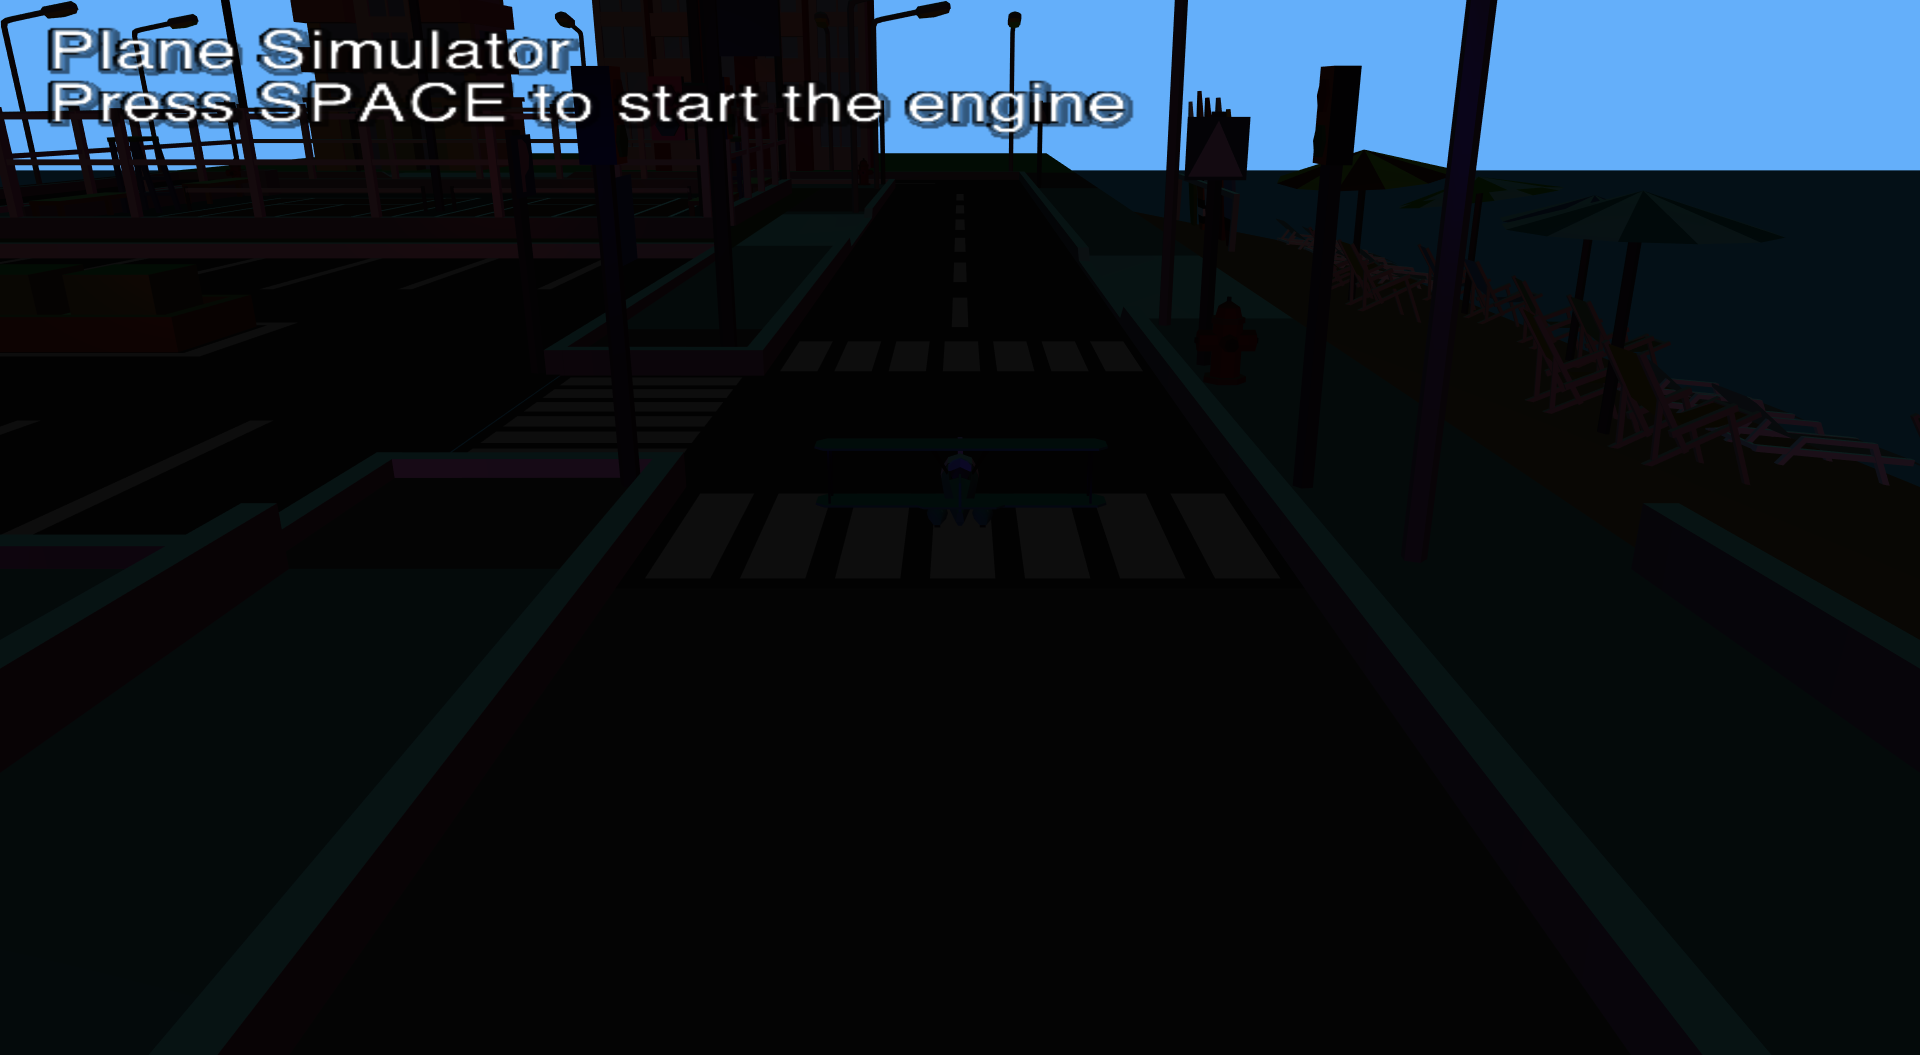
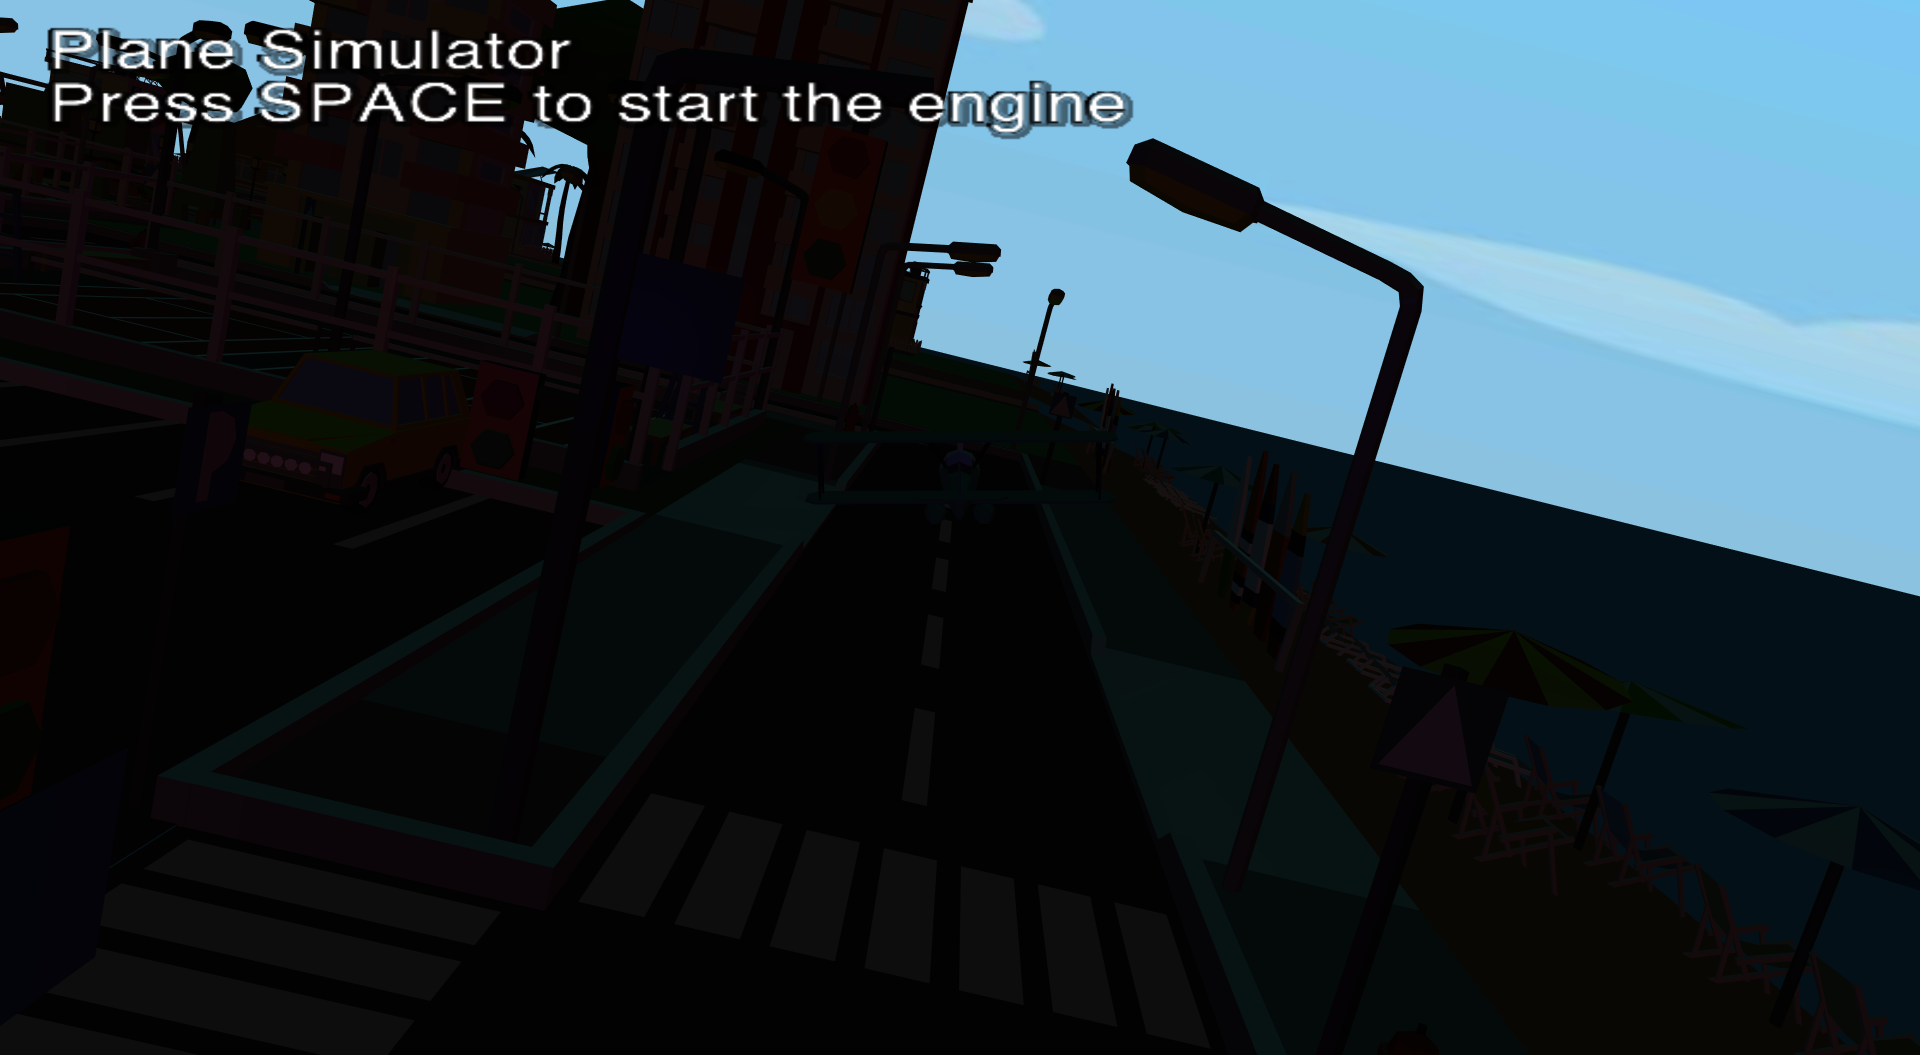
Implemented 1st person view and Pad commands

diff --git a/Code/modules/Starter.hpp b/Code/modules/Starter.hpp
@@ -1844,107 +1844,198 @@ std::cout << "Starting createInstance()\n"  << std::flush;
 	int images = 0;
 	Direction defaultDirection = Direction::FRONT;
 	Direction oldDirection = defaultDirection;
-
-	void handleCommands(float& deltaT, glm::vec3& movement, bool& start, float& zoom, float& speedFactor, Direction& direction, bool& instantCamera, uint32_t currentImage) {
+	bool tabPressed = false;
+	void handleCommands(float& deltaT, glm::vec3& movement, bool& start, float& zoom, float& speedFactor, Direction& direction, bool& instantCamera, bool& thirdPerson, uint32_t currentImage) {
 
 		static auto startTime = std::chrono::high_resolution_clock::now();
 		static float lastTime = 0.0f;
 
 		auto currentTime = std::chrono::high_resolution_clock::now();
-		float time = std::chrono::duration<float, std::chrono::seconds::period>
-			(currentTime - startTime).count();
+		float time = std::chrono::duration<float, std::chrono::seconds::period>(currentTime - startTime).count();
 		deltaT = time - lastTime;
 		lastTime = time;
 
 		direction = defaultDirection;
 		instantCamera = false;
 
-		if (glfwGetKey(window, GLFW_KEY_W)) {
-			movement.x = 1.0f;
-		}
-		if (glfwGetKey(window, GLFW_KEY_S)) {
-			movement.x = -1.0f;
-		}
-		if (glfwGetKey(window, GLFW_KEY_Q)) {
-			movement.z = -1.0f;
-		}
-		if (glfwGetKey(window, GLFW_KEY_E)) {
-			movement.z = 1.0f;
-		}
-		if (glfwGetKey(window, GLFW_KEY_A)) {
-			movement.y = 1.0f;
-		}
-		if (glfwGetKey(window, GLFW_KEY_D)) {
-			movement.y = -1.0f;
-		}
+		int id = GLFW_JOYSTICK_1;
 
-		/* TODO
-		handleGamePad(GLFW_JOYSTICK_1, m, r, fire);
-		handleGamePad(GLFW_JOYSTICK_2, m, r, fire);
-		handleGamePad(GLFW_JOYSTICK_3, m, r, fire);
-		handleGamePad(GLFW_JOYSTICK_4, m, r, fire);
-		*/
+		if (glfwJoystickIsGamepad(id)) {
+			GLFWgamepadstate state;
+			if (glfwGetGamepadState(id, &state)) {
+				float deadZone = 0.3f;
 
-		if (glfwGetKey(window, GLFW_KEY_ESCAPE)) {
-			glfwSetWindowShouldClose(window, GL_TRUE);
+				if (fabs(state.axes[GLFW_GAMEPAD_AXIS_LEFT_Y]) > deadZone) {
+					movement.x -= state.axes[GLFW_GAMEPAD_AXIS_LEFT_Y];
+				}
+				if (fabs(state.axes[GLFW_GAMEPAD_AXIS_LEFT_X]) > deadZone) {
+					movement.y -= state.axes[GLFW_GAMEPAD_AXIS_LEFT_X];
+				}
+				if (fabs(state.axes[GLFW_GAMEPAD_AXIS_LEFT_TRIGGER]) > deadZone) {
+					movement.z -= state.axes[GLFW_GAMEPAD_AXIS_LEFT_TRIGGER];
+				}
+				if (fabs(state.axes[GLFW_GAMEPAD_AXIS_RIGHT_TRIGGER]) > deadZone) {
+					movement.z += state.axes[GLFW_GAMEPAD_AXIS_RIGHT_TRIGGER];
+				}
+
+				if (fabs(state.axes[GLFW_GAMEPAD_AXIS_RIGHT_X]) > deadZone) {
+					if (state.axes[GLFW_GAMEPAD_AXIS_RIGHT_X] > 0.5f) {
+						direction = Direction::RIGHT;
+					}
+					else if (state.axes[GLFW_GAMEPAD_AXIS_RIGHT_X] < -0.5f) {
+						direction = Direction::LEFT;
+					}
+				}
+				if (fabs(state.axes[GLFW_GAMEPAD_AXIS_RIGHT_Y]) > deadZone) {
+					if (state.axes[GLFW_GAMEPAD_AXIS_RIGHT_Y] > 0.5f) {
+						direction = Direction::UP;
+					}
+					else if (state.axes[GLFW_GAMEPAD_AXIS_RIGHT_Y] < -0.5f) {
+						direction = Direction::BACK;
+					}
+				}
+
+				if (start) {
+					if (state.buttons[GLFW_GAMEPAD_BUTTON_LEFT_BUMPER]) {
+						speedFactor -= 0.15f;
+						if (speedFactor <= minSpeedFactor) {
+							speedFactor = minSpeedFactor;
+						}
+					}
+					if (state.buttons[GLFW_GAMEPAD_BUTTON_RIGHT_BUMPER]) {
+						speedFactor += 0.15f;
+						if (speedFactor >= maxSpeedFactor) {
+							speedFactor = maxSpeedFactor;
+						}
+					}
+
+					if (state.buttons[GLFW_GAMEPAD_BUTTON_LEFT_THUMB]) {
+						zoom -= 0.15f;
+						if (zoom <= 0.0f) {
+							zoom = 0.0f;
+						}
+					}
+					if (state.buttons[GLFW_GAMEPAD_BUTTON_RIGHT_THUMB]) {
+						zoom += 0.15f;
+						if (zoom >= maxZoom) {
+							zoom = maxZoom;
+						}
+					}
+				}
+
+				if (state.buttons[GLFW_GAMEPAD_BUTTON_START] || state.buttons[GLFW_GAMEPAD_BUTTON_A]) {
+					if (start) {
+						char buf[50];
+						sprintf_s(buf, "../Images/CGProject_%d.png", images++);
+						std::async(std::launch::async, &BaseProject::saveScreenshot, this, buf, currentImage);
+					}
+					else {
+						start = true;
+					}
+				}
+
+				if (state.buttons[GLFW_GAMEPAD_BUTTON_Y]) {
+					if (!tabPressed) {
+						thirdPerson = !thirdPerson;
+						tabPressed = true;
+					}
+				}
+				else {
+					tabPressed = false;
+				}
+
+				if (state.buttons[GLFW_GAMEPAD_BUTTON_B]) {
+					glfwSetWindowShouldClose(window, GL_TRUE);
+				}
+			}
 		}
+		else {
 
-		if (glfwGetKey(window, GLFW_KEY_SPACE)) {
+			if (glfwGetKey(window, GLFW_KEY_W)) {
+				movement.x = 1.0f;
+			}
+			if (glfwGetKey(window, GLFW_KEY_S)) {
+				movement.x = -1.0f;
+			}
+			if (glfwGetKey(window, GLFW_KEY_Q)) {
+				movement.z = -1.0f;
+			}
+			if (glfwGetKey(window, GLFW_KEY_E)) {
+				movement.z = 1.0f;
+			}
+			if (glfwGetKey(window, GLFW_KEY_A)) {
+				movement.y = 1.0f;
+			}
+			if (glfwGetKey(window, GLFW_KEY_D)) {
+				movement.y = -1.0f;
+			}
+
+			if (glfwGetKey(window, GLFW_KEY_DOWN)) {
+				direction = Direction::BACK;
+			}
+			if (glfwGetKey(window, GLFW_KEY_UP)) {
+				direction = Direction::UP;
+			}
+			if (glfwGetKey(window, GLFW_KEY_LEFT)) {
+				direction = Direction::LEFT;
+			}
+			if (glfwGetKey(window, GLFW_KEY_RIGHT)) {
+				direction = Direction::RIGHT;
+			}
+			
 			if (start) {
-				char buf[50];
-				sprintf_s(buf, "../Images/CGProject_%d.png", images++);
-				std::async(std::launch::async, &BaseProject::saveScreenshot, this, buf, currentImage);
-			}
-			else {
-				start = true;
-			}
-		}
+				if (glfwGetKey(window, GLFW_KEY_1)) {
+					speedFactor -= 0.15f;
+					if (speedFactor <= minSpeedFactor) {
+						speedFactor = minSpeedFactor;
+					}
+				}
 
-		if (start) {
+				if (glfwGetKey(window, GLFW_KEY_2)) {
+					speedFactor += 0.15f;
+					if (speedFactor >= maxSpeedFactor) {
+						speedFactor = maxSpeedFactor;
+					}
+				}
 
-			if (glfwGetKey(window, GLFW_KEY_1)) {
-				speedFactor -= 0.15f;
-				if (speedFactor <= minSpeedFactor){
-					speedFactor = minSpeedFactor;
+				if (glfwGetKey(window, GLFW_KEY_9)) {
+					zoom -= 0.15f;
+					if (zoom <= 0.0f) {
+						zoom = 0.0f;
+					}
+				}
+
+				if (glfwGetKey(window, GLFW_KEY_0)) {
+					zoom += 0.15f;
+					if (zoom >= maxZoom) {
+						zoom = maxZoom;
+					}
 				}
 			}
 
-			if (glfwGetKey(window, GLFW_KEY_2)) {
-				speedFactor += 0.15f;
-				if (speedFactor >= maxSpeedFactor) {
-					speedFactor = maxSpeedFactor;
+			if (glfwGetKey(window, GLFW_KEY_SPACE)) {
+				if (start) {
+					char buf[50];
+					sprintf_s(buf, "../Images/CGProject_%d.png", images++);
+					std::async(std::launch::async, &BaseProject::saveScreenshot, this, buf, currentImage);
+				}
+				else {
+					start = true;
 				}
 			}
 
-			if (glfwGetKey(window, GLFW_KEY_9)) {
-				zoom -= 0.15f;
-				if (zoom <= 0.0f) {
-					zoom = 0.0f;
-				}
+			if (glfwGetKey(window, GLFW_KEY_TAB) == GLFW_PRESS && !tabPressed) {
+				thirdPerson = !thirdPerson;
+				tabPressed = true;
 			}
 
-			if (glfwGetKey(window, GLFW_KEY_0)) {
-				zoom += 0.15f;
-				if (zoom >= maxZoom) {
-					zoom = maxZoom;
-				}
+			if (glfwGetKey(window, GLFW_KEY_TAB) == GLFW_RELEASE) {
+				tabPressed = false;
 			}
-		}
 
-		if (glfwGetKey(window, GLFW_KEY_DOWN)) {
-			direction = Direction::BACK;
-		}
-
-		if (glfwGetKey(window, GLFW_KEY_UP)) {
-			direction = Direction::UP;
-		}
-
-		if (glfwGetKey(window, GLFW_KEY_LEFT)) {
-			direction = Direction::LEFT;
-		}
-
-		if (glfwGetKey(window, GLFW_KEY_RIGHT)) {
-			direction = Direction::RIGHT;
+			if (glfwGetKey(window, GLFW_KEY_ESCAPE)) {
+				glfwSetWindowShouldClose(window, GL_TRUE);
+			}
 		}
 
 		if ((oldDirection == Direction::BACK && direction != Direction::BACK) || (direction == Direction::BACK && oldDirection != Direction::BACK)) {
@@ -1953,7 +2044,8 @@ std::cout << "Starting createInstance()\n"  << std::flush;
 
 		oldDirection = direction;
 	}
-	
+
+
 	// Public part of the base class
 	public:
 	// Debug commands

diff --git a/Code/main.cpp b/Code/main.cpp
@@ -320,6 +320,7 @@ class CGProject : public BaseProject {
 	float zoom = 1.0f;
 	float speedFactor = 1.0f;
 	glm::vec3 up = glm::vec3(0.0f, 1.0f, 0.0f);
+	bool thirdPerson = true;
 
 	void updateUniformBuffer(uint32_t currentImage) {
 
@@ -328,7 +329,7 @@ class CGProject : public BaseProject {
 		bool instantCamera;
 		Direction direction;
 
-		handleCommands(deltaT, movement, start, zoom, speedFactor, direction, instantCamera, currentImage);
+		handleCommands(deltaT, movement, start, zoom, speedFactor, direction, instantCamera, thirdPerson, currentImage);
 
 		if (start)
 		{
@@ -398,7 +399,13 @@ class CGProject : public BaseProject {
 			up += (glm::normalize(glm::vec3(Mplane.Wm[1])) - up) * followSpeed * deltaT;
 		}
 
-		ViewMatrix = glm::lookAt(CamPos, planePosition, up);
+		if (thirdPerson) {
+			ViewMatrix = glm::lookAt(CamPos, planePosition, up);
+		}
+		else {
+			glm::vec3 firstCamPos = planePosition - glm::vec3(0.1176) * glm::normalize(glm::vec3(Mplane.Wm[2])) + glm::vec3(0.108) * glm::normalize(glm::vec3(Mplane.Wm[1]));
+			ViewMatrix = glm::lookAt(firstCamPos, planePosition + glm::vec3(10.0) * glm::normalize(glm::vec3(Mplane.Wm[2])), glm::normalize(glm::vec3(Mplane.Wm[1])));
+		}
 
 		glm::mat4 M = glm::perspective(glm::radians(45.0f), Ar, 0.1f, 160.0f);
 		M[1][1] *= -1;
